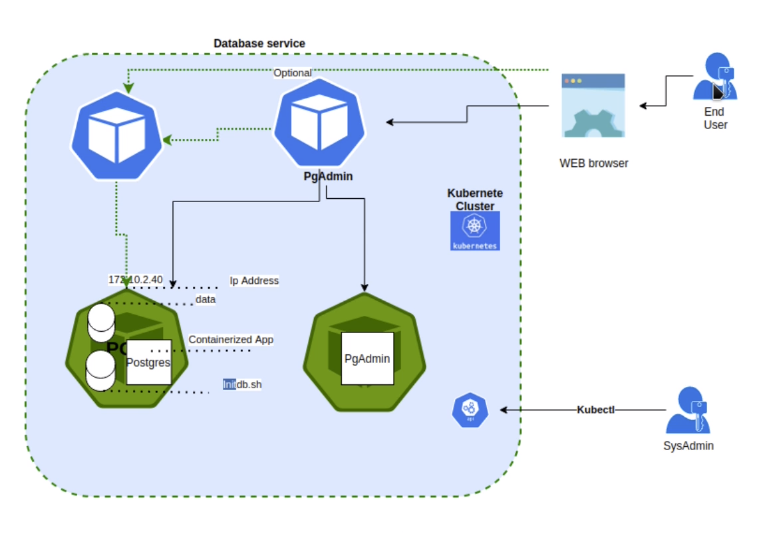
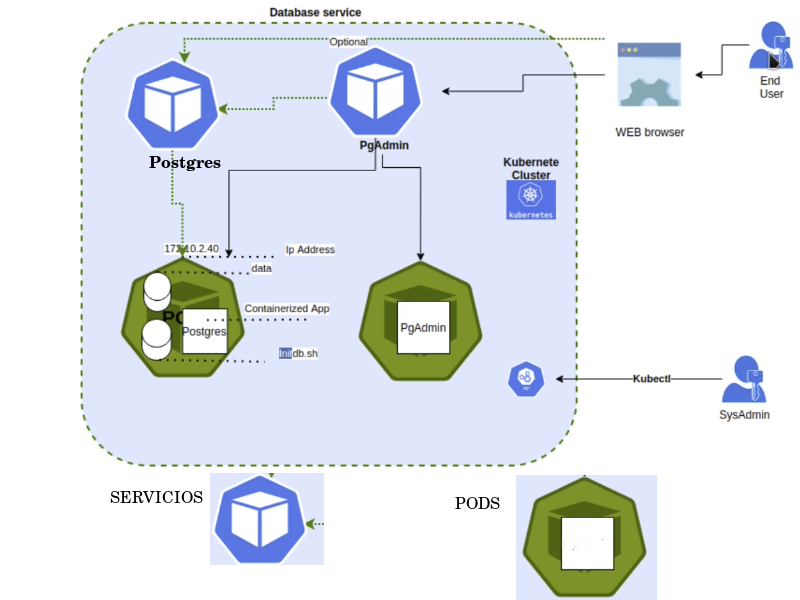
congif finalizada servicios

diff --git a/Kubernetes-Practicas.md b/Kubernetes-Practicas.md
@@ -70,7 +70,16 @@ Cluester conformado por dos pods, cada uno para la BD y otro para la aplicación
    - archivo de tipo *Deployment*
    - Imagen: *containers* especifica la imagen que se usara, en este caso se va a descargar - dpage/pgadmin4  
    - Información en etiqueta *envFrom* lee información cifrada de *secret-pgadmin.yaml* en *data* para cargar en *secretRef*
-
+7. Se crea *service-postgres.yaml* para crear el servicio de administración de Posgres
+    - archivo de tipo *Service*
+    - tipo de servicio *Nodeport* que indica que usa el mismo puerto del nodo, al ser un nodo no tendra problemas
+    - Puerto interno definido en *port*
+    - Puerto expuesto definido en *nodePort*
+8. Se crea *service-pgadmin.yaml* para crear el servicio de administración de la aplicaicon PgAdmin
+    - archivo de tipo *Service*
+    - tipo de servicio *Nodeport* que indica que usa el mismo puerto del nodo, al ser un nodo no tendra problemas
+    - Puerto interno definido en *port*
+    - Puerto expuesto definido en *nodePort*
 
 ***
 
